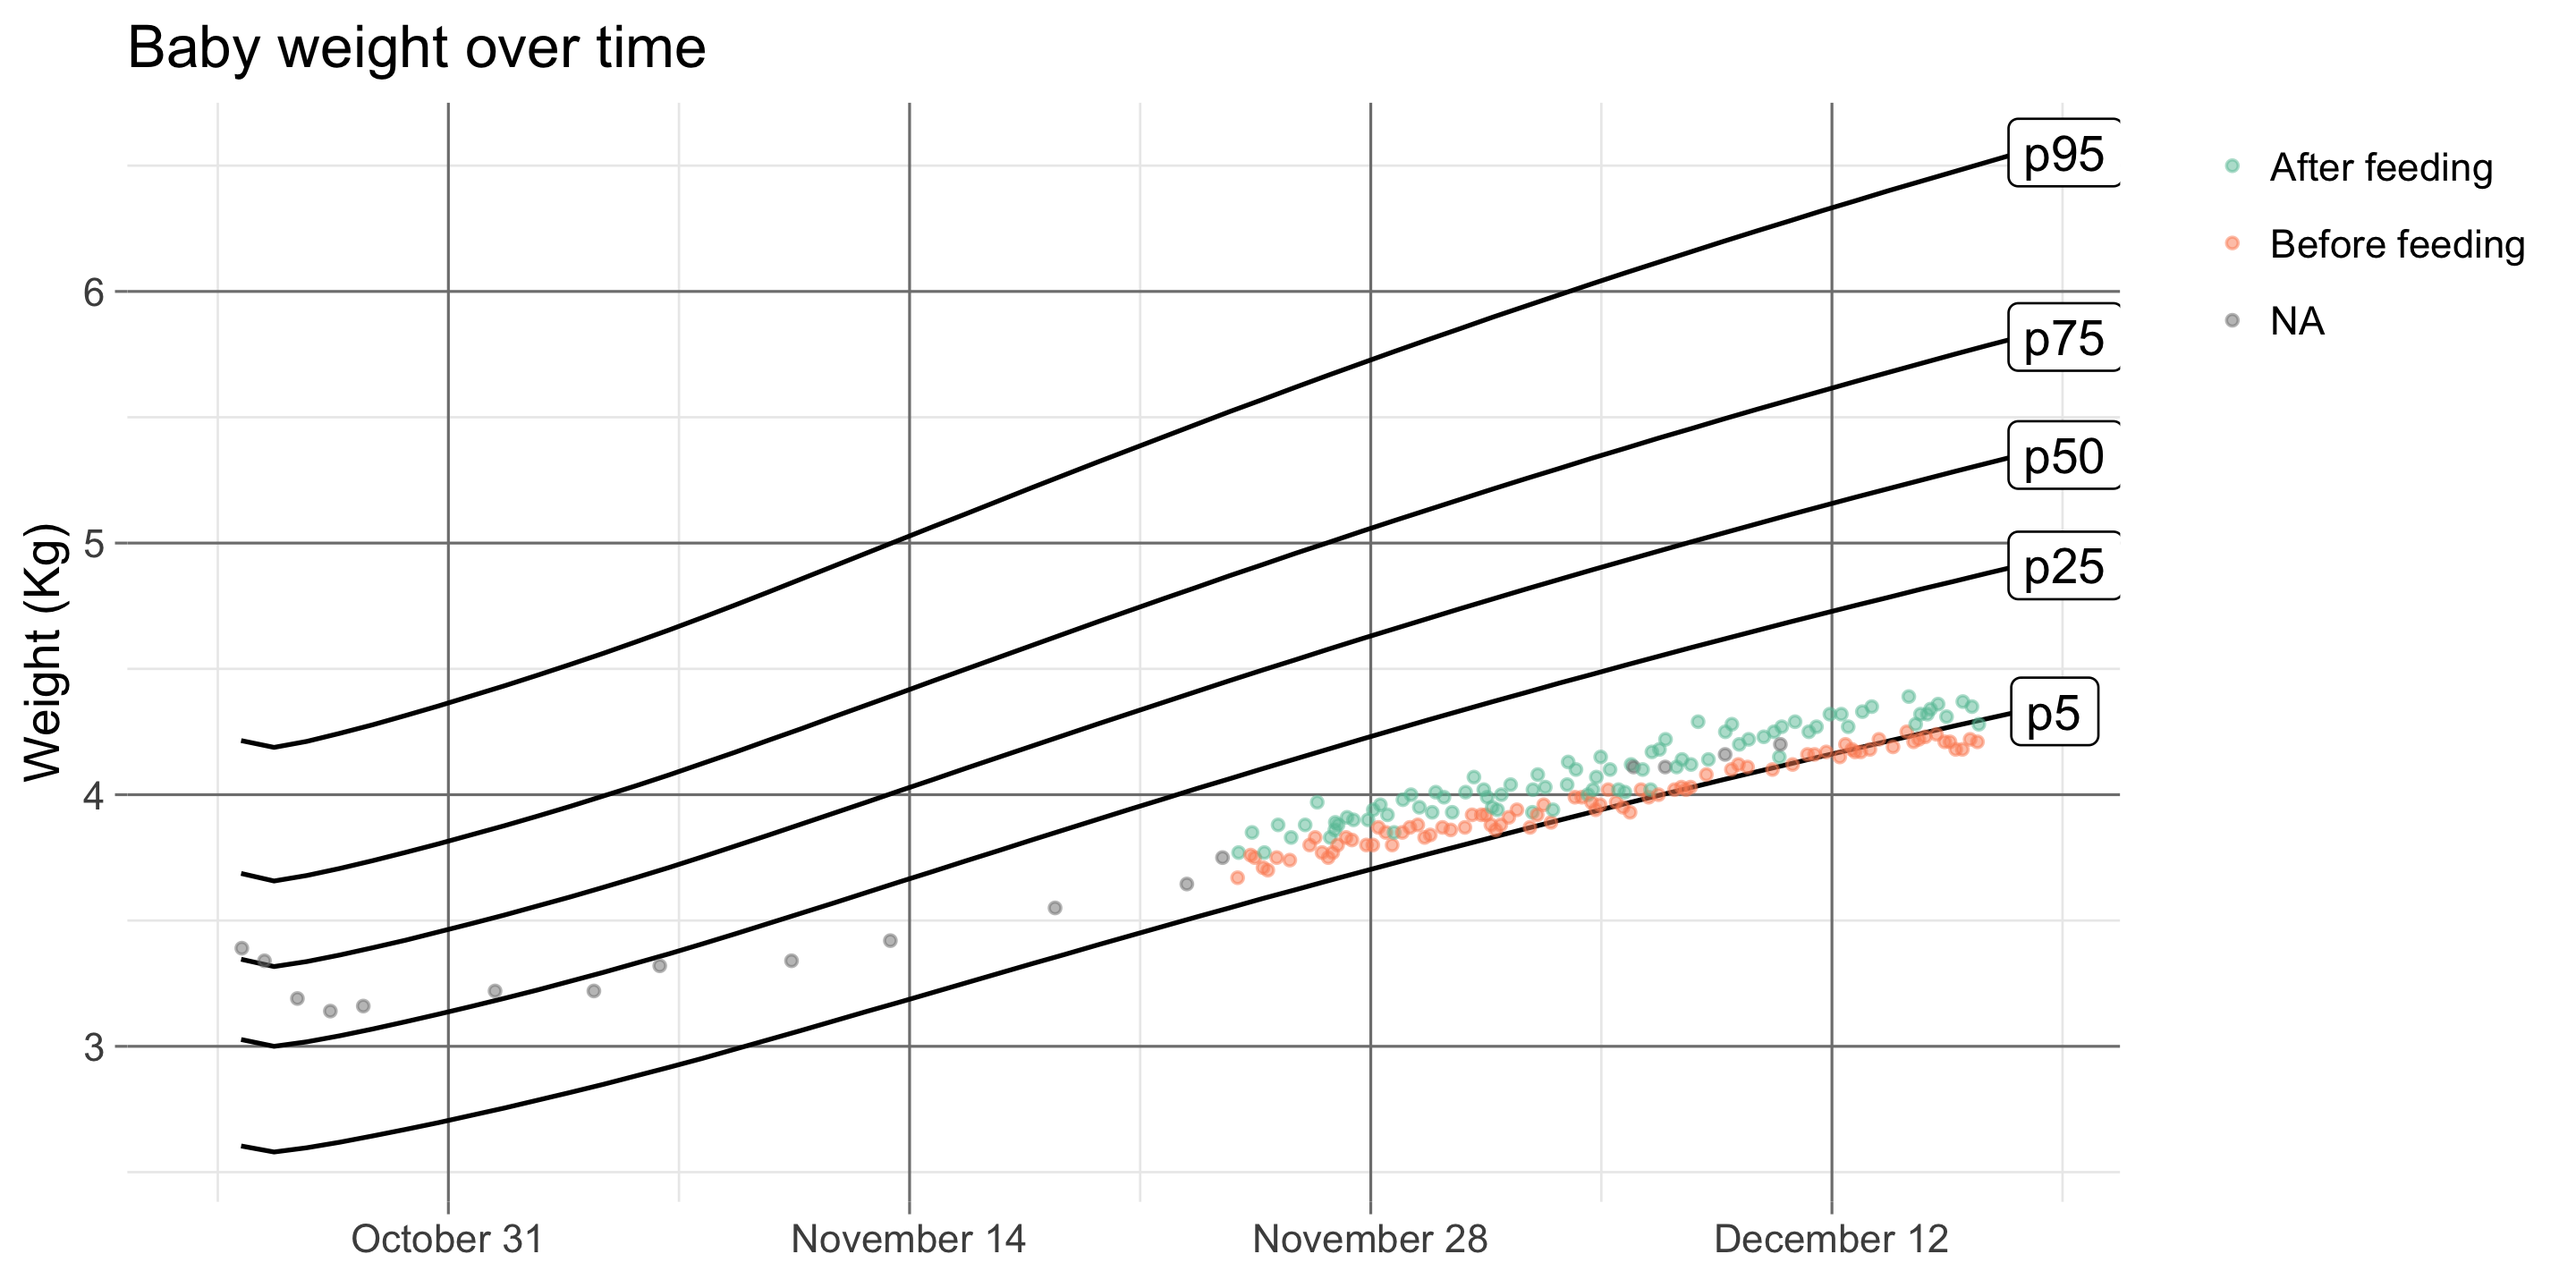
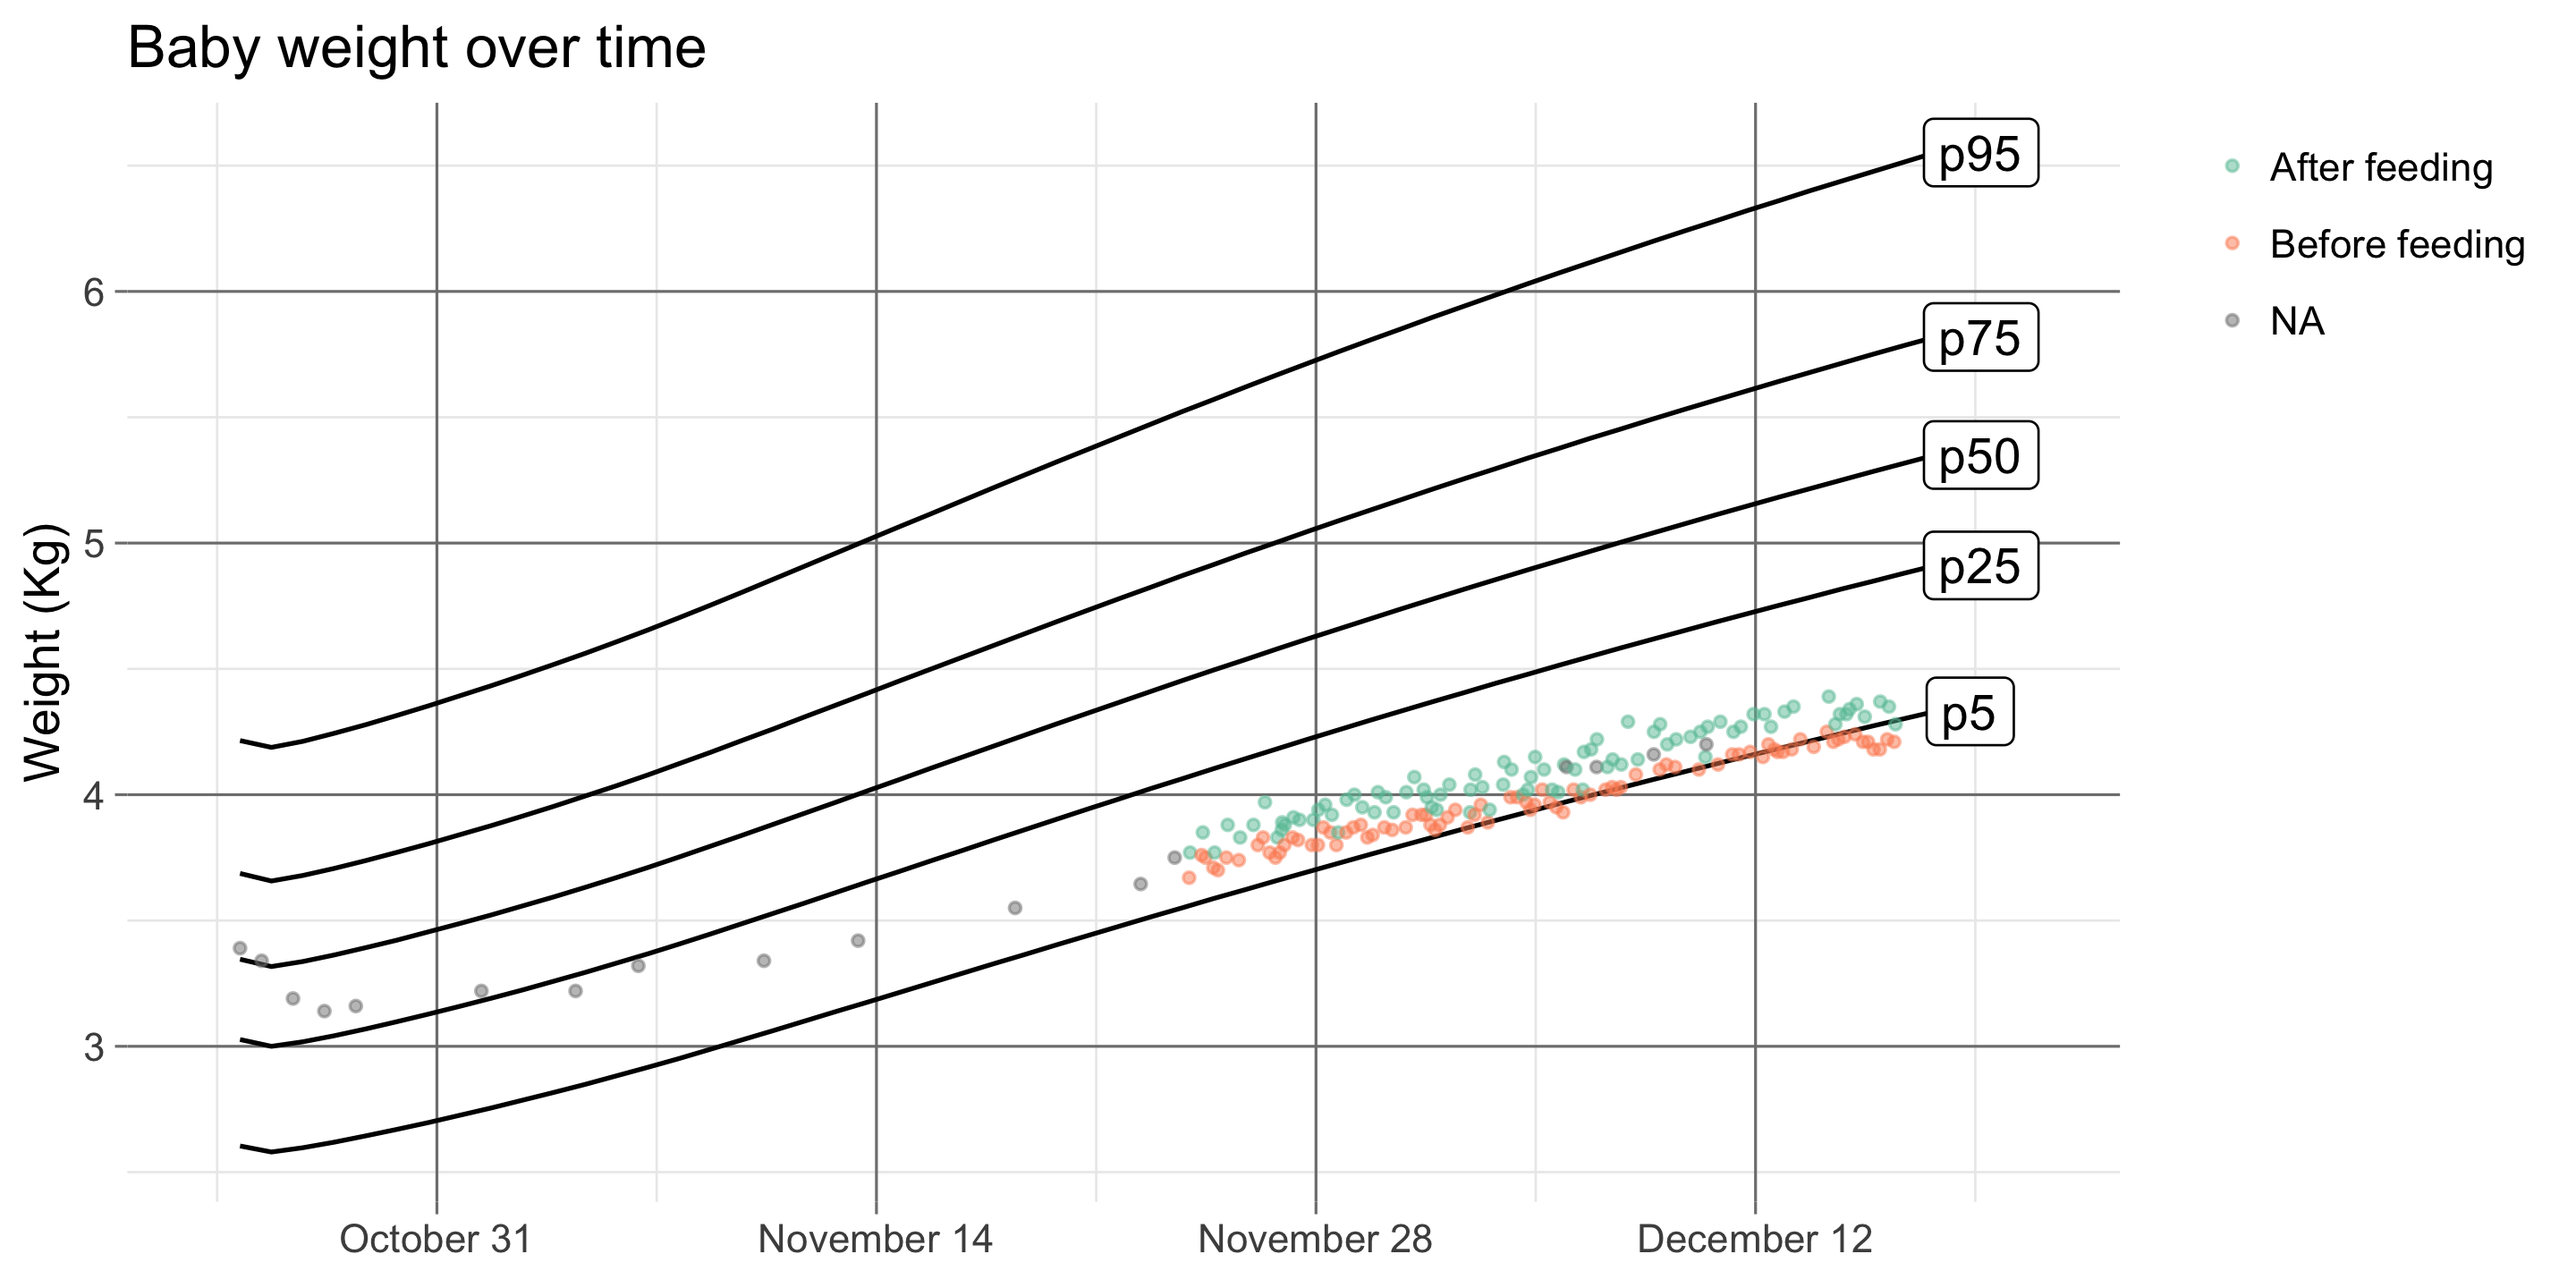
Add baby weight blogpost

diff --git a/content/blog/2019-05-01-Baby-weight-analysis.html b/content/blog/2019-05-01-Baby-weight-analysis.html
@@ -1,93 +1,148 @@
 ---
-title: "Baby-weight-analysis"
+title: "They grow so fast (but how fast exactly?)"
 author: Jeroen Boeye
-date: '2019-05-01'
-slug: Baby-weight-analysis
+date: '2019-05-04'
+slug: they-grow-so-fast
 comments: true
 categories: [R]
-tags: [R, Baby weight]
+tags: [R, Kids]
+twitterImg: '/figs/baby_weights.png'
+header:
+  caption: ''
+  image: '/figs/Mosquitos_extinct_100.png'
 ---
 
 
 
-<div id="intro" class="section level3">
-<h3>Intro</h3>
-<p>When our first kid was born we decided to try breastfeeding him as long as possible since this is widely regarded as the healthiest thing to do. However, things didn’t go as smoothly as we hoped and the baby struggled to gain sufficient weight. In our urge to get some control over the situation we started measuring the baby before and after every feeding session to check whether he actually drank something. Over time this resulted in a dataset that is much more detailed than a standard baby weight dataset with a measurement every few days or weeks.</p>
+<div id="step-1-get-a-baby" class="section level3">
+<h3>Step 1, get a baby</h3>
+<p>When our first kid was born we decided to try breastfeeding him as long as possible since this is widely regarded as the healthiest thing to do. However, things didn’t go as smoothly as we hoped and the baby struggled to gain sufficient weight. In our urge to get some control over the situation, we started measuring the baby before and after every feeding session to check whether he actually drank something. Over time this resulted in a dataset that is much more detailed than a standard baby weight dataset with a measurement every few days or weeks.</p>
 <p>After 2 months of breastfeeding this was the pattern:</p>
-<pre class="r"><code>library(rprojroot)
+<pre class="r"><code>library(tidyverse)
+library(readr)
+library(lubridate)
+library(rprojroot)
 rt &lt;- rprojroot::is_rstudio_project
 
+weight_df &lt;- read_csv(rt$find_file(&quot;static/files/baby_weights.csv&quot;)) 
+
+# Derives bday from first weight entry
+bday &lt;- min(weight_df$datetime)
+
 # Reading and pre-processing the WHO data
-who_df &lt;- read_delim(&quot;https://www.who.int/childgrowth/standards/wfa_boys_p_exp.txt&quot;, delim = &quot;\t&quot;)%&gt;%
+who_url &lt;- &quot;https://www.who.int/childgrowth/standards/wfa_boys_p_exp.txt&quot;
+who_df &lt;- read_delim(who_url, delim = &quot;\t&quot;)%&gt;%
   setNames(tolower(make.names(names(.))))%&gt;%
-  mutate(datetime = ymd_hms(&quot;2016-10-24 17:00:00&quot;) + days(age))%&gt;%
+  mutate(datetime = bday + days(age))%&gt;%
   select(datetime, p5, p25, p50, p75, p95) %&gt;% 
   gather(key = quantile, value = weight, p5:p95)
 
-custom_theme &lt;-  theme_bw()+
+# create theme to use in ggplots
+custom_theme &lt;- theme_bw()+
   theme(legend.title = element_blank(),
         legend.justification = &#39;top&#39;,
+        panel.border = element_blank(),
+        panel.grid.major = element_line(color = &#39;grey50&#39;, 
+                                        size = rel(0.6)),
         axis.title.x = element_blank(),
-        panel.grid.major = element_line(colour = &#39;grey50&#39;, size = rel(0.6)),
-        axis.ticks = element_line(colour = &#39;grey50&#39;, size = rel(0.6)),
-        panel.border = element_blank())
+        axis.ticks = element_line(color = &#39;grey50&#39;, 
+                                  size = rel(0.6)))
   
-read_csv(rt$find_file(&quot;static/files/baby_weights.csv&quot;)) %&gt;%
-  filter(datetime &lt; &quot;2016-12-16 15:00:00&quot;) %&gt;% 
+weight_df%&gt;%
+  filter(datetime &lt; bday + days(53)) %&gt;% 
   ggplot(aes(datetime, weight))+
   geom_line(data = who_df%&gt;%
-                    filter(datetime &lt; ymd(&#39;2016-12-18&#39;)), aes(group = quantile))+
+                    filter(datetime &lt; bday + days(55)), 
+            aes(group = quantile))+
   geom_label(data = who_df%&gt;%
-              filter(datetime &lt; ymd(&#39;2016-12-18&#39;))%&gt;%
+              filter(datetime &lt; bday + days(55))%&gt;%
               group_by(quantile)%&gt;%
               filter(datetime == max(datetime)),
             aes(group = quantile, label = quantile),
             hjust = 0.1)+
-  geom_point(aes(colour = feeding_status), alpha=0.5, shape=20)+
+  geom_point(aes(color = feeding_status), alpha=0.5, shape=20)+
   scale_color_brewer(palette = &#39;Set2&#39;, na.value = &quot;grey50&quot;)+
-  scale_x_datetime(limits = ymd_hms(c(&quot;2016-10-24 00:00:00&quot;, &quot;2016-12-18 00:00:00&quot;)),
+  scale_x_datetime(limits = c(bday - hours(17), 
+                              bday + days(57)),
                  date_breaks = &quot;2 weeks&quot;, 
                  date_labels = &quot;%B %d&quot;)+
   labs(title = &quot;Baby weight over time&quot;,
        y = &#39;Weight (Kg)&#39;)+
   custom_theme</code></pre>
 <p><img src="/blog/2019-05-01-Baby-weight-analysis_files/figure-html/unnamed-chunk-1-1.png" width="1440" /></p>
-<p>The black lines are the <a href="https://www.who.int/childgrowth/standards/wfa_boys_p_exp.txt">baby weight quantiles</a> provided by the World Health Orginization. Our son was right at the median (p50) at birth but gradually lost ground and was dropping below the 5% quantile after 2 months. After strugling for one month we rented a scale to measure him before and after feeding sessions, you can see these measurements as coloured dots in the plot.</p>
+<p>The black lines are the <a href="https://www.who.int/childgrowth/standards/wfa_boys_p_exp.txt">baby weight quantiles</a> provided by the World Health Organization. Our son was right at the median (p50) at birth but gradually lost ground and was dropping below the 5% quantile after 2 months. After struggling for one month we rented a scale to measure him before and after feeding sessions, you can see these measurements as colored dots in the plot.</p>
 </div>
 <div id="taking-matters-in-our-own-hands" class="section level3">
 <h3>Taking matters in our own hands</h3>
-<p>Up to this point we’d been following the advice given to us by a nurse/midwife who was following up on us. She’s a strong breastfeeding advocate and as first time parents we kept following her advice to push through during those first two months. However, as time progressed our son kept losing ground on the growth curve and the advice to just keep trying felt more and more out of touch with the reality that it simply wasn’t working. We therefore decided to take matters in our own hands and ignore the pressure to stick to breastfeeding.</p>
-<pre class="r"><code>read_csv(rt$find_file(&quot;static/files/baby_weights.csv&quot;)) %&gt;%
-  filter(datetime &lt; &quot;2017-02-16 15:00:00&quot;) %&gt;% 
+<p>Up to this point, we’d been following the advice given to us by a nurse/midwife who was following up on us. She’s a strong breastfeeding advocate and as first-time parents we kept following her advice to push through during those first two months. However, as time progressed our son kept losing ground on the growth curve and the advice to just keep trying felt more and more out of touch with the reality that it simply wasn’t working. We, therefore, decided to take matters in our own hands and ignore the pressure to stick to breastfeeding.</p>
+<pre class="r"><code>weight_df %&gt;%
+  filter(datetime &lt; bday + days(115)) %&gt;% 
   ggplot(aes(datetime, weight))+
-  geom_line(data = who_df%&gt;%
-                    filter(datetime &lt; ymd(&#39;2017-02-16&#39;)), aes(group = quantile))+
+  geom_line(data = filter(who_df, datetime &lt; bday + days(115)), 
+            aes(group = quantile))+
   geom_label(data = who_df%&gt;%
-              filter(datetime &lt; ymd(&#39;2017-02-16&#39;))%&gt;%
+              filter(datetime &lt; bday + days(115))%&gt;%
               group_by(quantile)%&gt;%
               filter(datetime == max(datetime)),
             aes(group = quantile, label = quantile),
             hjust = 0.1)+
-  geom_point(aes(colour = feeding_status), alpha=0.5, shape=20)+
-  annotate(&quot;segment&quot;, x = ymd_hms(&quot;2017-01-02 00:00:00&quot;), xend = ymd_hms(&quot;2016-12-21 00:00:00&quot;), 
-           y = 3.7, yend = 4.2, colour = &quot;grey10&quot;, size=2, alpha=0.9, arrow=arrow())+
-  annotate(&quot;text&quot;, x = ymd_hms(&quot;2017-01-15 00:00:00&quot;), y = 3.6, 
-           label = &quot;Switch to bottle feeding&quot; , size=6, fontface=&quot;bold&quot;)+
+  geom_point(aes(color = feeding_status), alpha=0.5, shape=20)+
+  annotate(&quot;segment&quot;, x = bday + days(71), 
+           xend = bday + days(58), 
+           y = 3.6, yend = 4.2, color = &quot;grey10&quot;, 
+           size=1.2, alpha=0.9, arrow=arrow())+
+  annotate(&quot;text&quot;, x = bday + days(93), 
+           y = 3.4, label = &quot;Switch to bottle feeding&quot; , 
+           size=4.5, fontface=&quot;bold&quot;)+
   scale_color_brewer(palette = &#39;Set2&#39;, na.value = &quot;grey50&quot;)+
-  scale_x_datetime(limits = ymd_hms(c(&quot;2016-10-24 00:00:00&quot;, &quot;2017-02-16 10:00:00&quot;)),
+  scale_x_datetime(limits = c(bday - hours(17), 
+                              bday + days(117)),
                  date_breaks = &quot;1 month&quot;, 
                  date_labels = &quot;%B&quot;)+
   labs(title = &quot;Baby weight over time&quot;,
        y = &#39;Weight (Kg)&#39;)+
   custom_theme</code></pre>
 <p><img src="/blog/2019-05-01-Baby-weight-analysis_files/figure-html/unnamed-chunk-2-1.png" width="1440" /></p>
-<p>The results were spectacular, in just one month time the baby raced back past the 50% quantile and kept going. We went from having a skinny baby to a rather chubby one in no time. Fast forward two and a half years and the baby is now a happy todler doing just fine.</p>
+<p>The results were spectacular, in just one month time the baby raced back past the 50% quantile and kept going. We went from having a skinny baby to a rather chubby one in no time. Fast forward two and a half years and the baby is now a happy toddler doing just fine.</p>
 </div>
 <div id="conclusion" class="section level3">
 <h3>Conclusion</h3>
-<p>I wouldn’t want the takeaway from this post to be that breastfeeding is bad, it clearly isn’t and I too believe mother’s milk is healthiest. I would however like to ask of people who advise young parents on this matter to be a bit less dogmatic about the whole thing. Due to the pressure we felt from different sources it seemed that moving towards bottle feeding was irresponsible while in hindsight the opposite was true and we sticked to it for too long.</p>
+<p>I wouldn’t want the takeaway from this post to be that breastfeeding is bad, it clearly isn’t and I too believe mother’s milk is healthiest. I would, however, like people who advise young parents on this matter to be less dogmatic about the whole thing. Due to the pressure we felt from different sources it seemed that moving towards bottle feeding was irresponsible while in hindsight the opposite was true and we stuck to it for too long.</p>
 </div>
 <div id="additional-number-crunshing" class="section level3">
 <h3>Additional number crunshing</h3>
-<p>Since this dataset has a pretty high level of detail there is some additional things that we can learn here.</p>
+<p>Since this dataset has a pretty high level of detail there are some additional things that we can learn here. One of those is the within-day variance in baby weights. To derive this variance we’ll plot a simple linear model on a part of the data where the weight increased at a steady pace.</p>
+<pre class="r"><code># Filter on a part fhe data with a linear increase
+linear_df &lt;- weight_df %&gt;%
+  filter(datetime &gt; bday + days(29)) %&gt;%
+  filter(datetime &lt; bday + days(51)) 
+
+# Simple linear model
+model &lt;- lm(data = linear_df, weight~datetime)
+
+library(broom)
+linear_df %&gt;% 
+  ggplot(aes(x = datetime))+
+  geom_point(aes(y = weight, color = feeding_status))+
+  # Use the model predictions to draw the black line
+  geom_line(data = augment(model), aes(y = .fitted))+
+  scale_color_brewer(palette = &#39;Set2&#39;, na.value = &quot;grey50&quot;)+
+  labs(title = &quot;Baby weight over time with linear model predictions&quot;,
+       y = &#39;Weight (Kg)&#39;)+
+  custom_theme</code></pre>
+<p><img src="/blog/2019-05-01-Baby-weight-analysis_files/figure-html/unnamed-chunk-3-1.png" width="1440" /></p>
+<p>You can see that, while the overall trend is a linear increase, the within-day variance is quite big. There are days where the baby is 100 grams below the linear trendline at one point and 100 grams above it at another.</p>
+<p>Let’s plot the residuals to get a better idea of the spread.</p>
+<pre class="r"><code>augment(model) %&gt;% 
+  ggplot(aes(x=.resid))+
+  geom_histogram(bins = 50, aes(fill=linear_df$feeding_status), 
+                 color=&#39;grey40&#39;, size=rel(0.2))+
+  scale_fill_brewer(palette = &#39;Set2&#39;, na.value = &quot;grey50&quot;)+
+  labs(title = &quot;Histogram of how much actual baby weights differ from the linear increase&quot;,
+       x = &#39;Weight model residual (Kg)&#39;,
+       y = &#39;Count&#39;)+
+  custom_theme + theme(legend.key.width = unit(0.32, &quot;cm&quot;))</code></pre>
+<p><img src="/blog/2019-05-01-Baby-weight-analysis_files/figure-html/unnamed-chunk-4-1.png" width="1440" /></p>
+<p>Since the spread in baby weights is quite big it is hard to tell how much weight a baby has gained over a couple of days time if you only measure the baby once on both days. This was something that bugged me when the nurse would tell us the baby was doing fine after an increase of 100 grams over two days somewhere at the beginning of November was measured.</p>
+<p>One side note on the data shown here is that is kind of exaggerates the spread in daily values since we always measured the baby before and after feedings when the differences were most extreme. Because of this, the distribution takes a bimodal shape with measurements before feedings on the left and after feedings on the right. If you’d measure at random points during the day you’d get a normal distribution.</p>
 </div>
